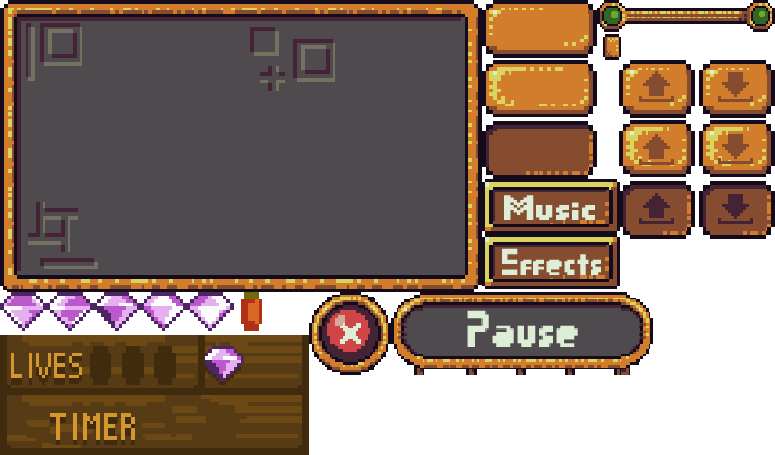
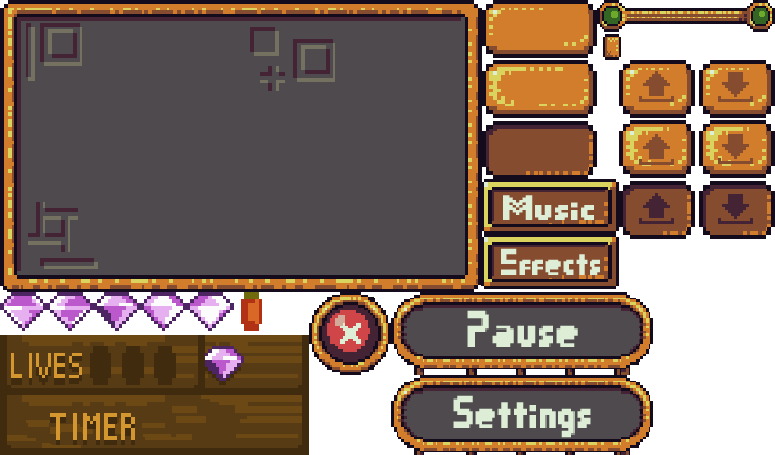
atlas changed, button improved, diamonds config

Changed region(s): [[0.4955, 0.8, 0.8671, 1.0], [0.6194, 0.5231, 0.8052, 0.6154], [0.6194, 0.4, 0.8052, 0.4923]]

diff --git a/Motor2D/j1Gui.cpp b/Motor2D/j1Gui.cpp
@@ -34,19 +34,35 @@ bool j1Gui::Awake(pugi::xml_node& conf)
 	atlas_file_name = conf.child("atlas").attribute("file").as_string(); 
 	logo_file_name = conf.child("logo").attribute("file").as_string();
 
-	//LOAD PUSHBACKS
-	button_anim.PushBack({ 483,0,114,58 });
-	button_anim.PushBack({ 483,60,114,58 });
-	button_anim.PushBack({ 483,121,114,58 });
+	////LOAD PUSHBACKS
 
-	button2_anim.PushBack({ 699,60,76,58 });
-	button2_anim.PushBack({ 699,120,76,58 });
-	button2_anim.PushBack({ 699,181,76,58 });
-
-	button3_anim.PushBack({ 619,60,76,58 });
-	button3_anim.PushBack({ 619,120,76,58 });
-	button3_anim.PushBack({ 619,181,76,58 });
-
+	for (pugi::xml_node push_node = conf.child("animations").child("button").child("frame"); push_node && ret; push_node = push_node.next_sibling("frame"))
+	{
+		button_anim.PushBack({
+			push_node.attribute("x").as_int(),
+			push_node.attribute("y").as_int(),
+			push_node.attribute("w").as_int(),
+			push_node.attribute("h").as_int()
+			});
+	}
+	for (pugi::xml_node push_node = conf.child("animations").child("button2").child("frame"); push_node && ret; push_node = push_node.next_sibling("frame"))
+	{
+		button2_anim.PushBack({
+			push_node.attribute("x").as_int(),
+			push_node.attribute("y").as_int(),
+			push_node.attribute("w").as_int(),
+			push_node.attribute("h").as_int()
+			});
+	}
+	for (pugi::xml_node push_node = conf.child("animations").child("button3").child("frame"); push_node && ret; push_node = push_node.next_sibling("frame"))
+	{
+		button3_anim.PushBack({
+			push_node.attribute("x").as_int(),
+			push_node.attribute("y").as_int(),
+			push_node.attribute("w").as_int(),
+			push_node.attribute("h").as_int()
+			});
+	}
 	btn_file_name = conf.child("btn_fx").child_value();
 
 

diff --git a/Motor2D/j1Image.cpp b/Motor2D/j1Image.cpp
@@ -99,8 +99,7 @@ void j1Image::createSettings() {
 void j1Image::createSettingsIntro() {
 	int w, h; 
 	App->font->CalcSize("SETTINGS", w, h);
-
-	childs.add((j1ElementGUI*)new j1Label({ (float)rect->w/2 - w/2,  50 },"SETTINGS",nullptr,this));
+	childs.add((j1ElementGUI*)new j1Image({ 110, -80 }, new SDL_Rect({ 391, 376,262,80 }), Levels::NONE, windowType::NONE, graphics, this));
 	childs.add((j1ElementGUI*)new j1Slider({ 30, 75 }, MUSIC, graphics, this));
 	childs.add((j1ElementGUI*)new j1Slider({ 140, 75 }, FX, graphics, this));
 	childs.add((j1ElementGUI*)new j1Button({ 180, 200 }, "BACK", &App->gui->button_anim, f_CloseWindow, true, graphics, this));

diff --git a/Motor2D/j1EntityManager.cpp b/Motor2D/j1EntityManager.cpp
@@ -104,6 +104,7 @@ bool j1EntityManager::AwakeEntities() {
 	while (item != NULL && ret == true)
 	{
 		ret = item->data->Awake(_config.child(item->data->name.GetString()));
+		LOG(item->data->name.GetString());
 		item = item->next;
 	}
 

diff --git a/Motor2D/j1PowerUp.cpp b/Motor2D/j1PowerUp.cpp
@@ -29,7 +29,7 @@ j1PowerUp::~j1PowerUp()
 {}
 
 bool j1PowerUp::Awake(pugi::xml_node& config) {
-	LOG("Loading PoweUp");
+	LOG("Loading PowerUp");
 	bool ret = true;
 
 	folder.create(config.child("folder").child_value());
